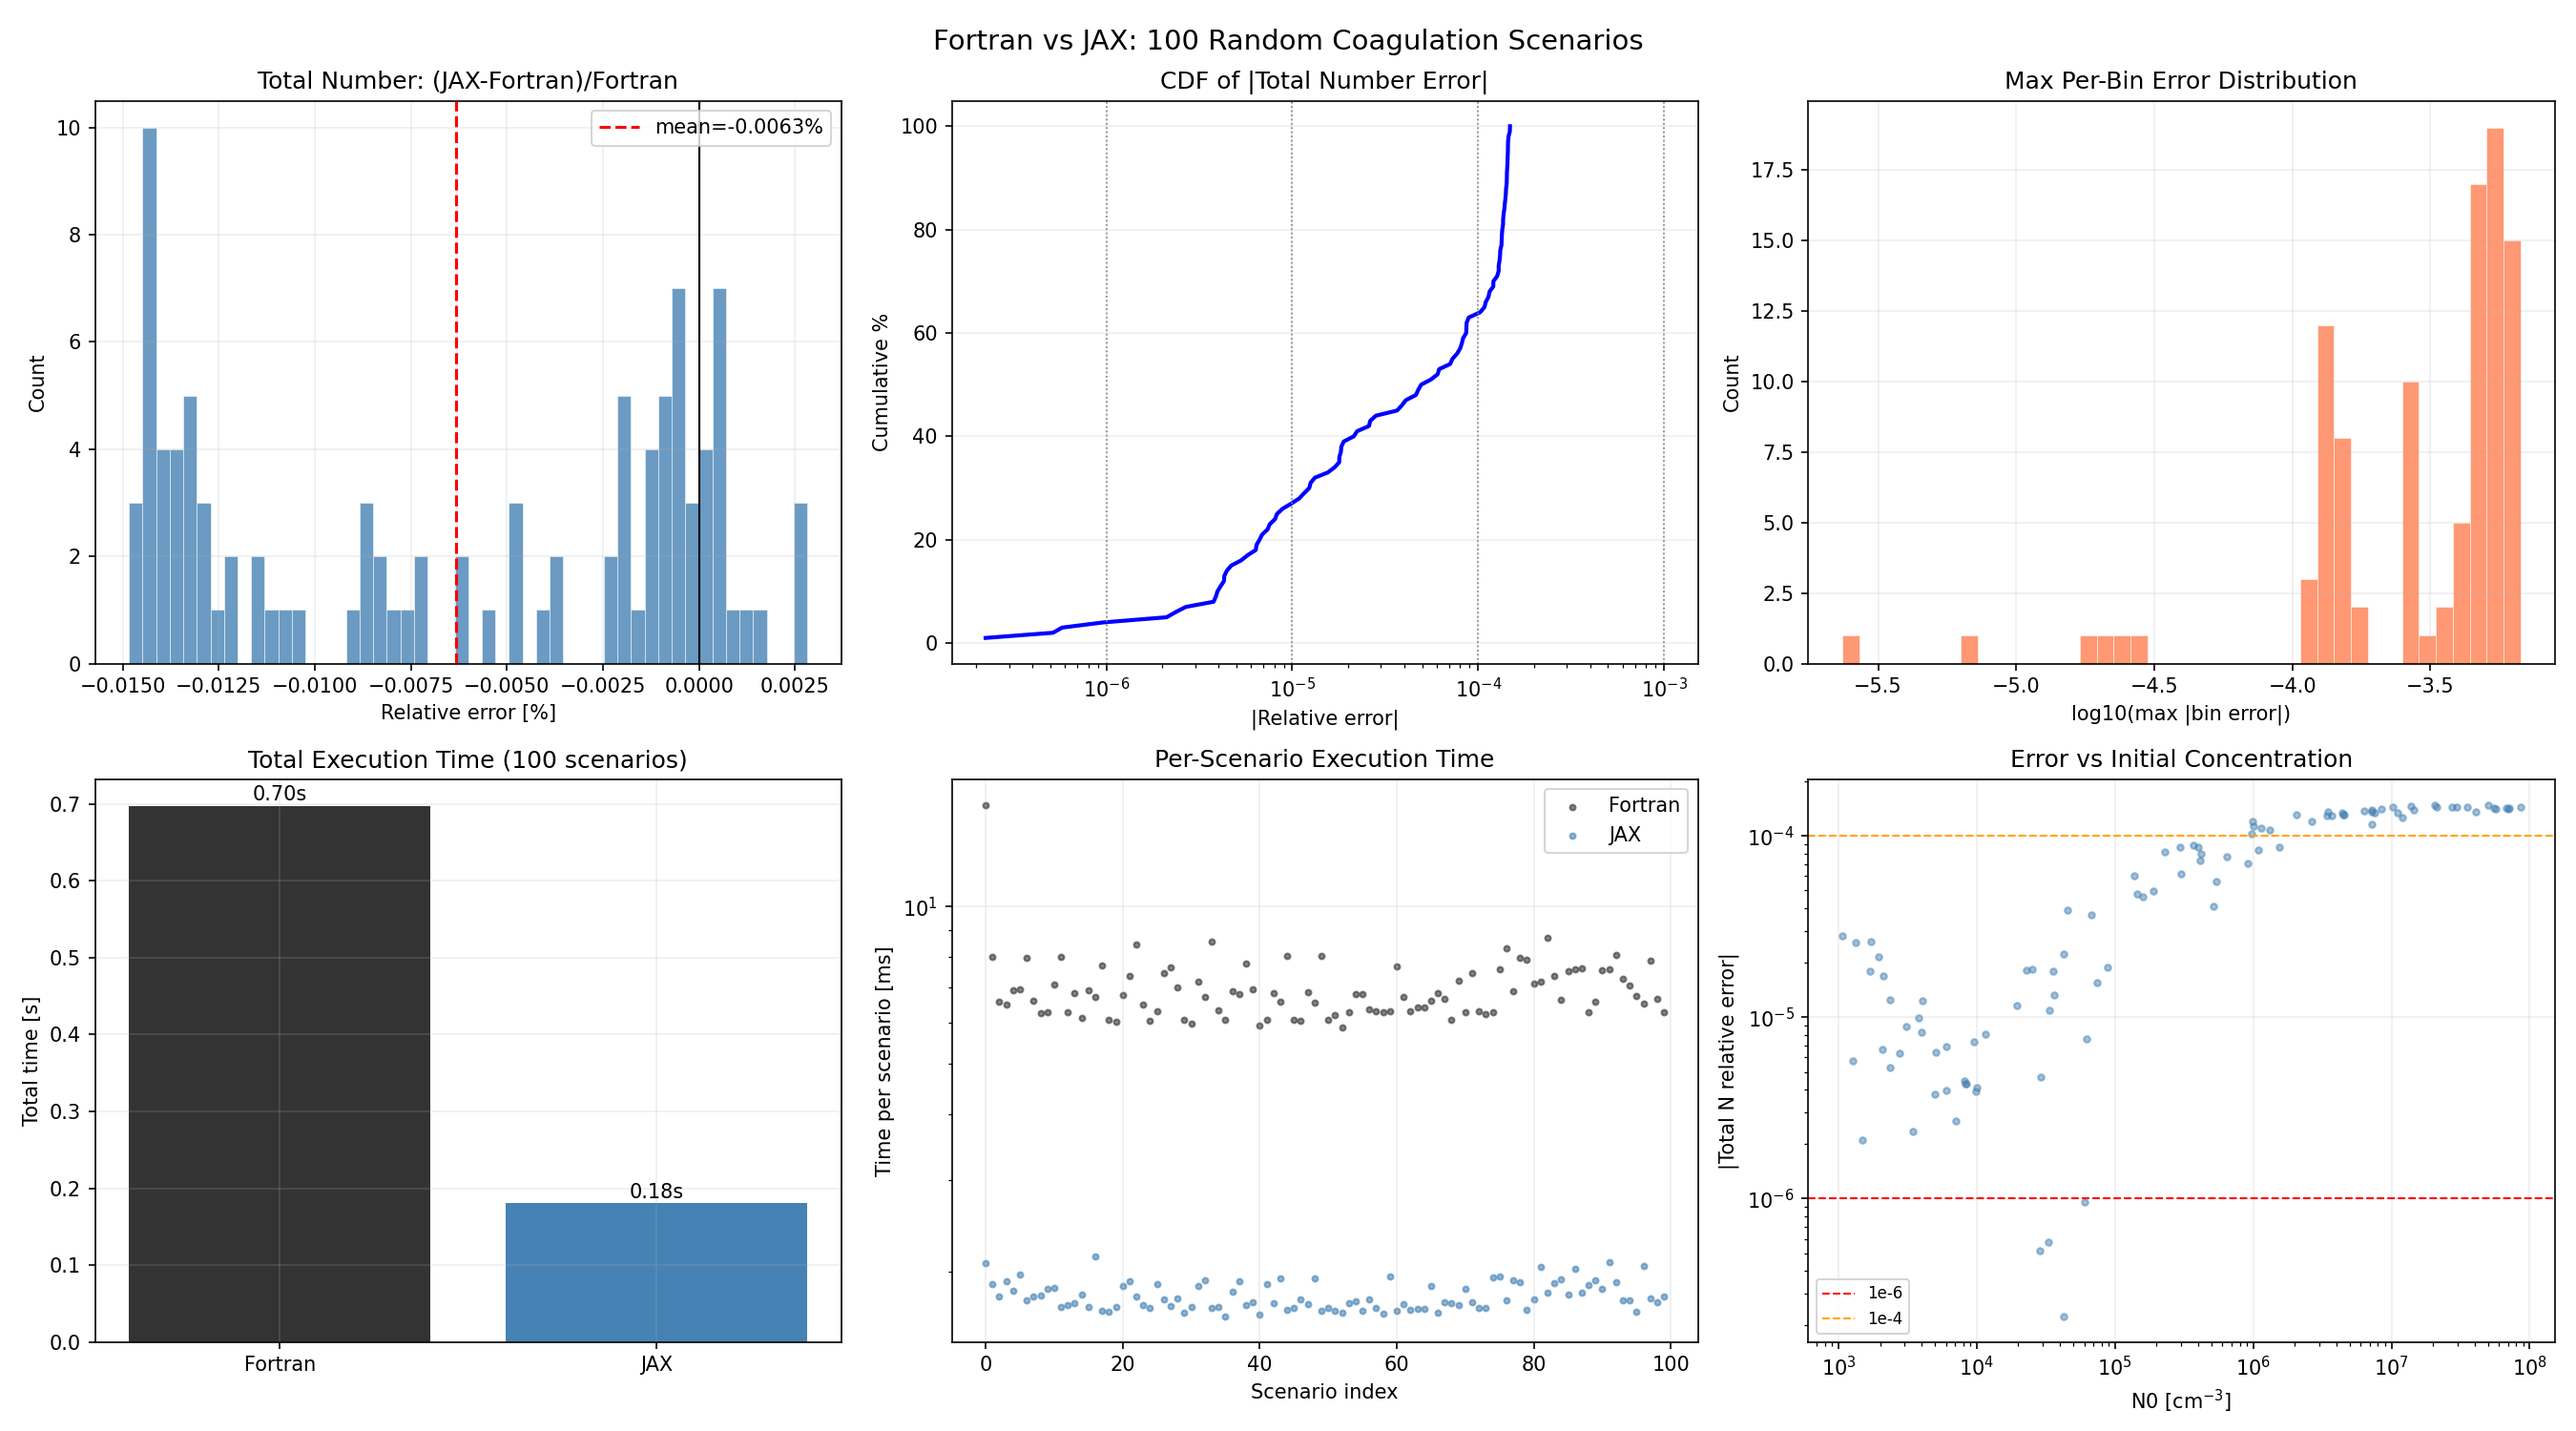
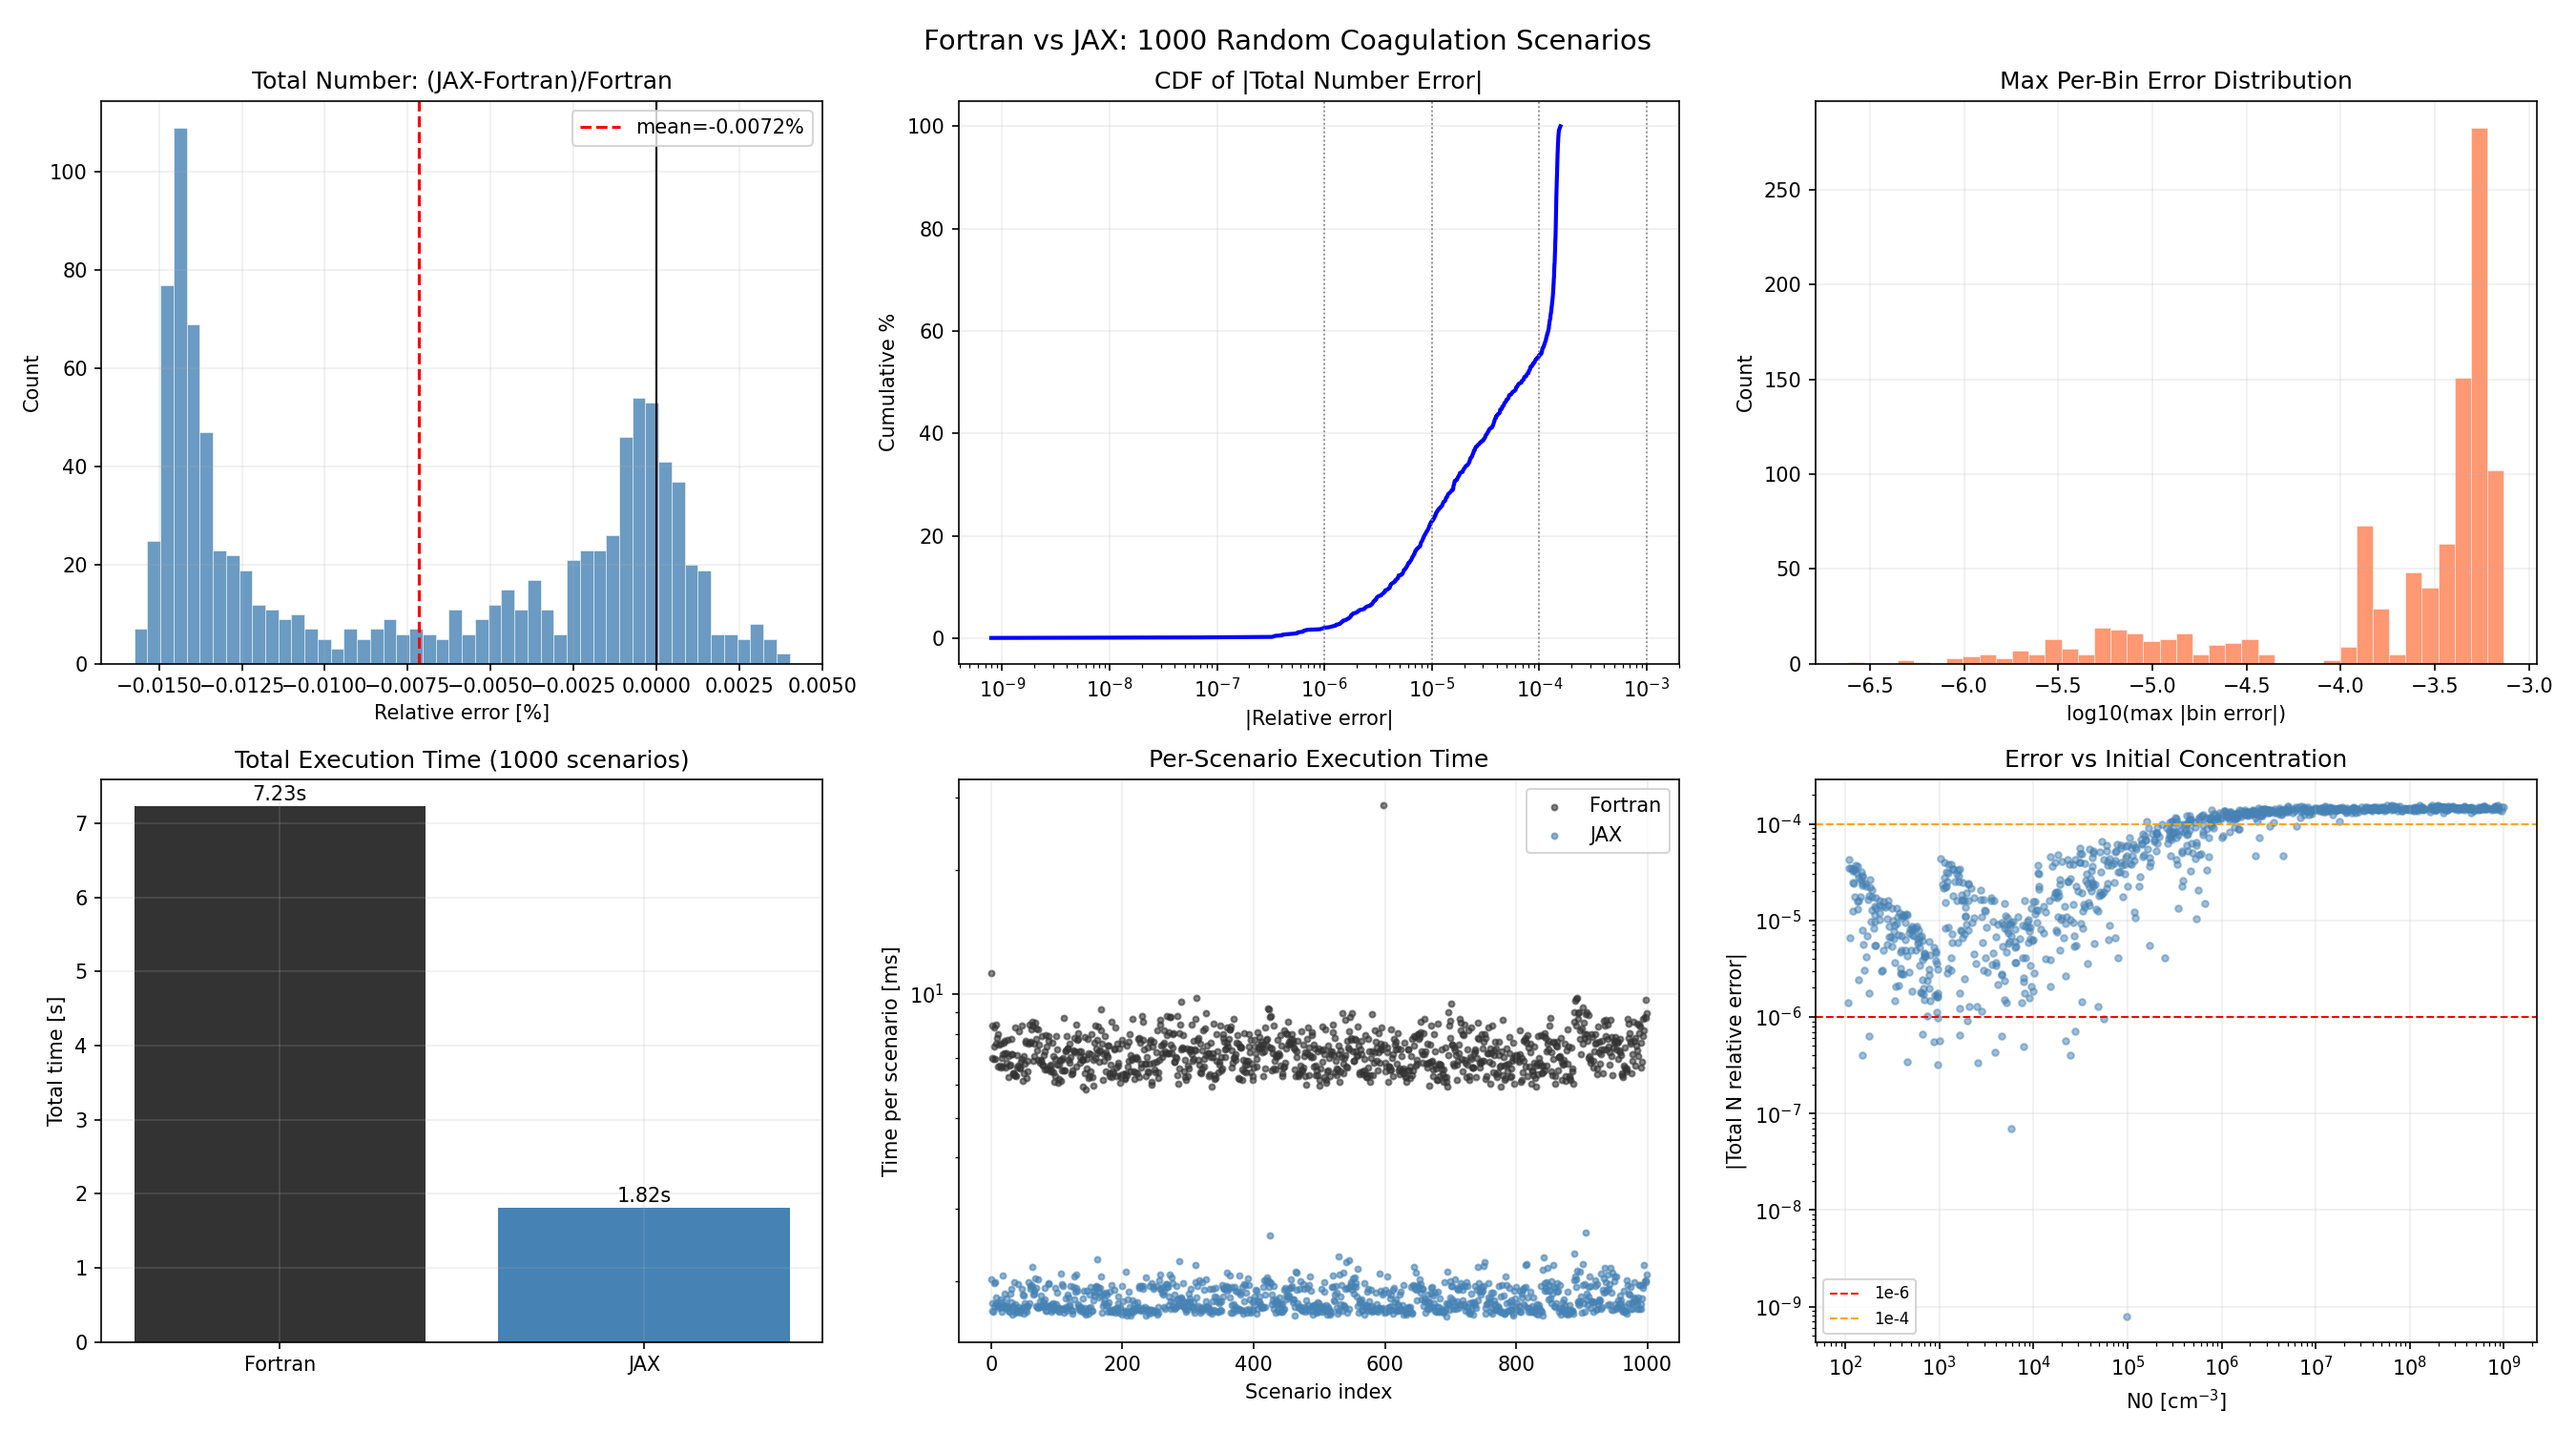
Scale Fortran vs JAX validation to 1000 scenarios
Widened parameter ranges: N0 1e2-1e9, dt 30s-30min, bins 1-5, T_ref 150-400K.
All 1000 scenarios completed in 10.4s (Fortran 7.2s + JAX 1.8s).

Results:
- 100% of scenarios below 1e-3 total number error
- Mean error: 7.5e-5, max: 1.6e-4
- Max per-bin error (N>10): 7.3e-4
- JAX 4.0x faster than Fortran on CPU single-column

diff --git a/scripts/fortran_vs_jax_100.py b/scripts/fortran_vs_jax_100.py
@@ -118,7 +118,7 @@ def run_jax(n0, ck0, dtime, nstep, init_bin, microslow_fn, zmet, rmass):
 
 def main():
     np.random.seed(42)
-    n_scenarios = 100
+    n_scenarios = 1000
     nstep = 20
 
     # Setup JAX infrastructure once
@@ -171,14 +171,13 @@ def main():
     _ = microslow_fn(pc_w, pc_w, ck_w, pcon_w, zmet, DTYPE(600.0))
 
     # Random scenario parameters
-    log_N0 = np.random.uniform(3, 8, n_scenarios)
+    log_N0 = np.random.uniform(2, 9, n_scenarios)
     N0_arr = 10.0 ** log_N0
-    init_bins = np.random.randint(1, 4, n_scenarios)  # 1-based for Fortran
-    # Use the same constant kernel formula as original test
-    # but vary reference temperature: ck0 = 8*BK*T_ref / (3*eta)
-    T_ref = np.random.uniform(200, 350, n_scenarios)
+    init_bins = np.random.randint(1, 6, n_scenarios)  # 1-based for Fortran, bins 1-5
+    # Vary kernel: ck0 = 8*BK*T_ref / (3*eta), T_ref in [150, 400]K
+    T_ref = np.random.uniform(150, 400, n_scenarios)
     ck0_arr = 8.0 * 1.38054e-16 * T_ref / (3.0 * 1.85e-4)
-    dtime_arr = np.random.uniform(100, 1000, n_scenarios)
+    dtime_arr = np.random.uniform(30, 1800, n_scenarios)  # 30s to 30min
 
     # Results storage
     fortran_times_total = 0.0
@@ -234,7 +233,7 @@ def main():
             max_bin_err[i] = bin_errs.max()
             mean_bin_err[i] = bin_errs.mean()
 
-        if (i + 1) % 20 == 0:
+        if (i + 1) % 200 == 0:
             elapsed = timer.time() - t_total_start
             print(f"  {i+1}/{n_scenarios} ({elapsed:.1f}s)", flush=True)
 
